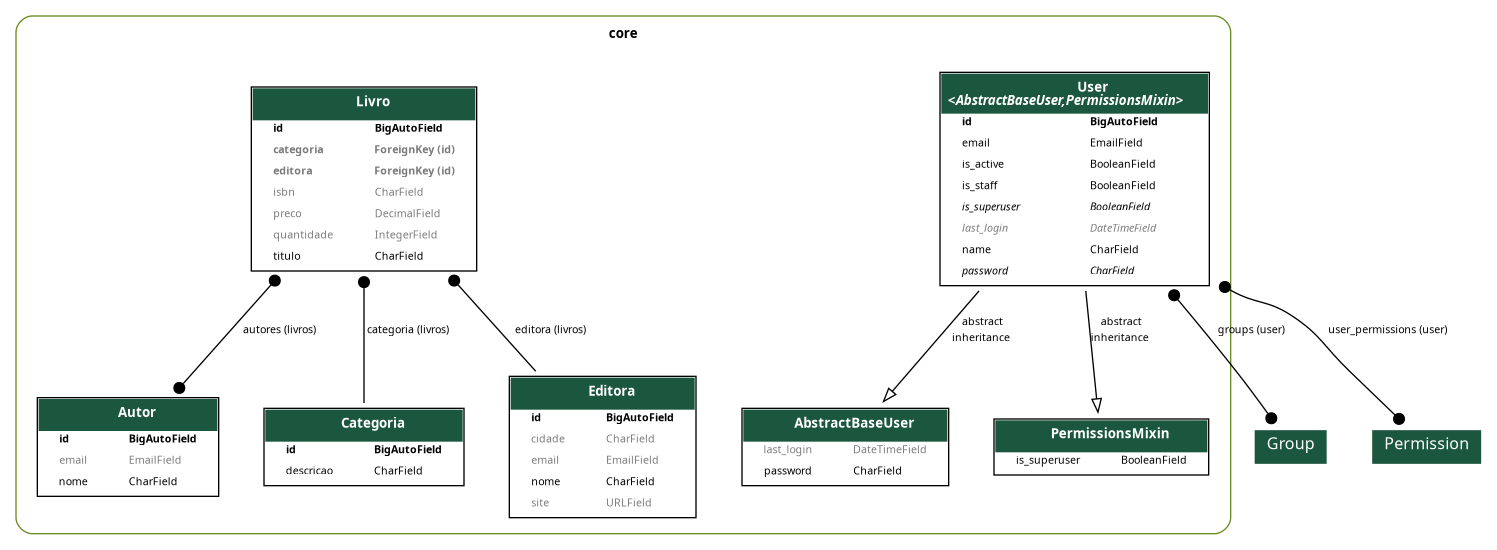
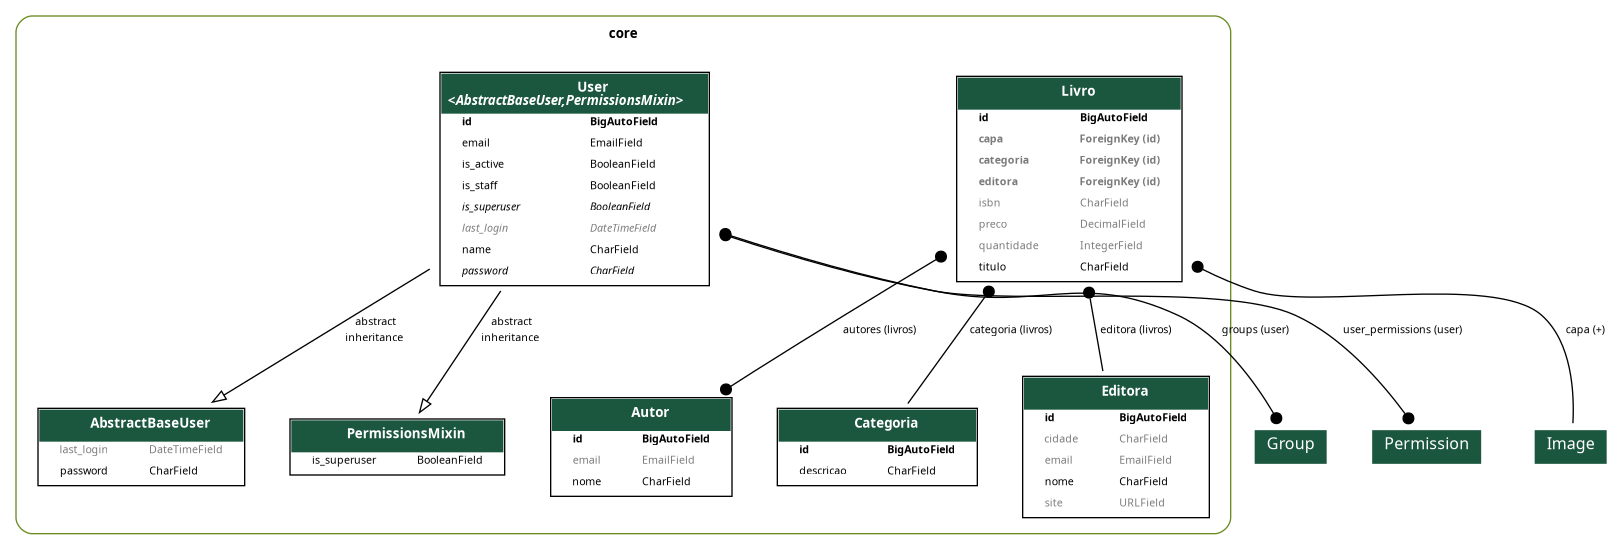
Atualiza modelo Livro para incluir campo capa

diff --git a/core/serializers/livro.py b/core/serializers/livro.py
@@ -1,9 +1,13 @@
-from rest_framework.serializers import ModelSerializer
+from rest_framework.serializers import ModelSerializer, SlugRelatedField
 
 from core.models import Livro
+from uploader.models import Image
+from uploader.serializers import ImageSerializer
 
 
 class LivroDetailSerializer(ModelSerializer):
+    capa = ImageSerializer(required=False)
+
     class Meta:
         model = Livro
         fields = "__all__"
@@ -17,6 +21,15 @@ class LivroListSerializer(ModelSerializer):
 
 
 class LivroSerializer(ModelSerializer):
+    capa_attachment_key = SlugRelatedField(
+        source="capa",
+        queryset=Image.objects.all(),
+        slug_field="attachment_key",
+        required=False,
+        write_only=True,
+    )
+    capa = ImageSerializer(required=False, read_only=True)
+
     class Meta:
         model = Livro
         fields = "__all__"

diff --git a/core/models/livro.py b/core/models/livro.py
@@ -1,5 +1,7 @@
 from django.db import models
 
+from uploader.models import Image
+
 from .autor import Autor
 from .categoria import Categoria
 from .editora import Editora
@@ -13,6 +15,14 @@ class Livro(models.Model):
     categoria = models.ForeignKey(Categoria, on_delete=models.PROTECT, related_name="livros", null=True, blank=True)
     editora = models.ForeignKey(Editora, on_delete=models.PROTECT, related_name="livros", null=True, blank=True)
     autores = models.ManyToManyField(Autor, related_name="livros")
+    capa = models.ForeignKey(
+        Image,
+        related_name="+",
+        on_delete=models.CASCADE,
+        null=True,
+        blank=True,
+        default=None,
+    )
 
     def __str__(self):
         return f"({self.id}) {self.titulo} ({self.quantidade})"

diff --git a/core/migrations/0010_livro_capa.py b/core/migrations/0010_livro_capa.py
@@ -1,0 +1,27 @@
+# Generated by Django 5.0.4 on 2024-04-25 18:47
+
+import django.db.models.deletion
+from django.db import migrations, models
+
+
+class Migration(migrations.Migration):
+
+    dependencies = [
+        ("core", "0009_livro_autores"),
+        ("uploader", "0001_initial"),
+    ]
+
+    operations = [
+        migrations.AddField(
+            model_name="livro",
+            name="capa",
+            field=models.ForeignKey(
+                blank=True,
+                default=None,
+                null=True,
+                on_delete=django.db.models.deletion.CASCADE,
+                related_name="+",
+                to="uploader.image",
+            ),
+        ),
+    ]
